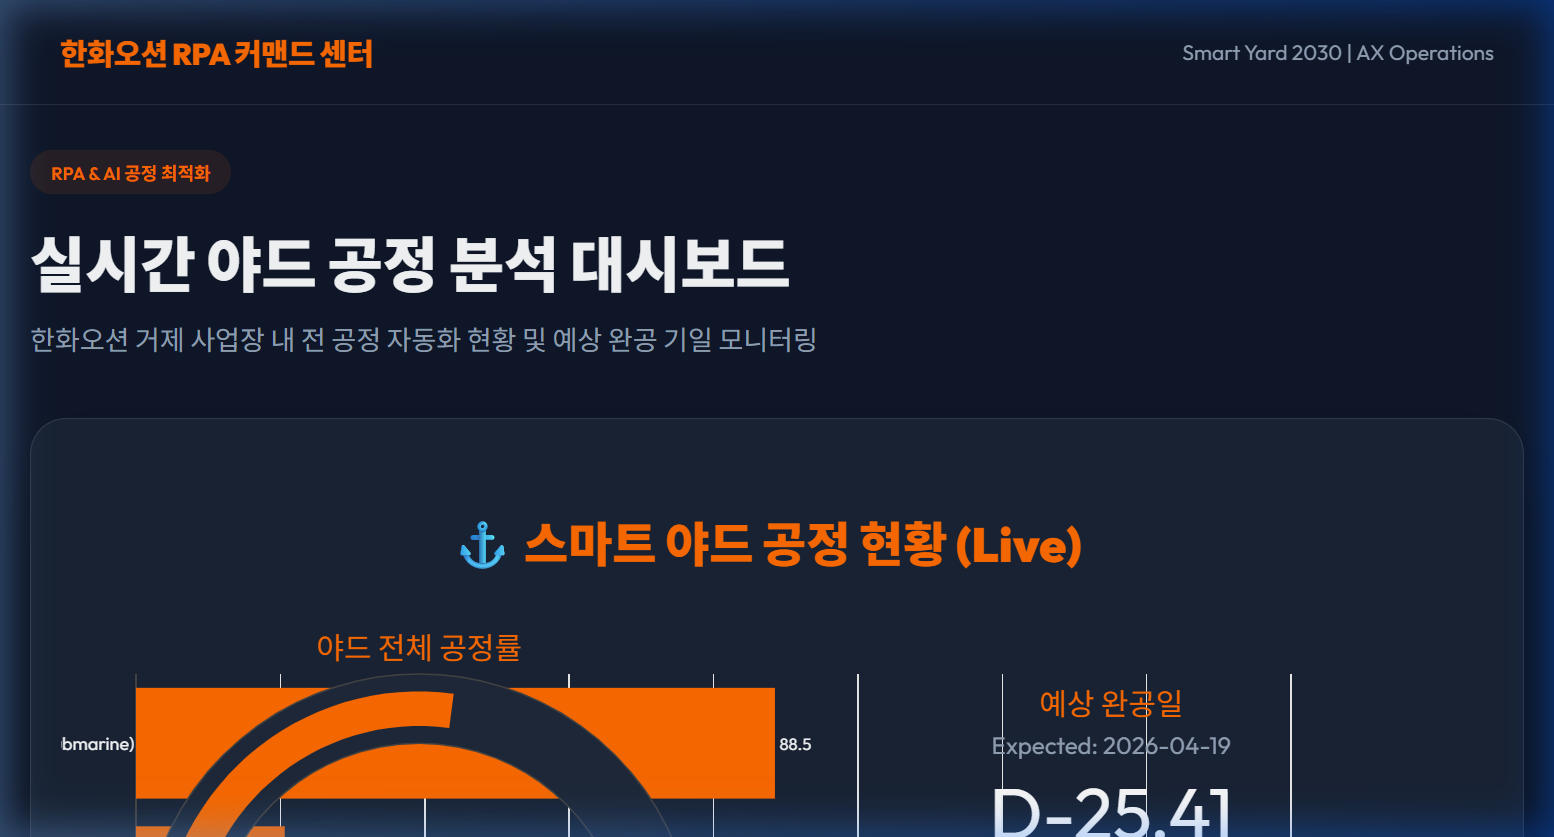
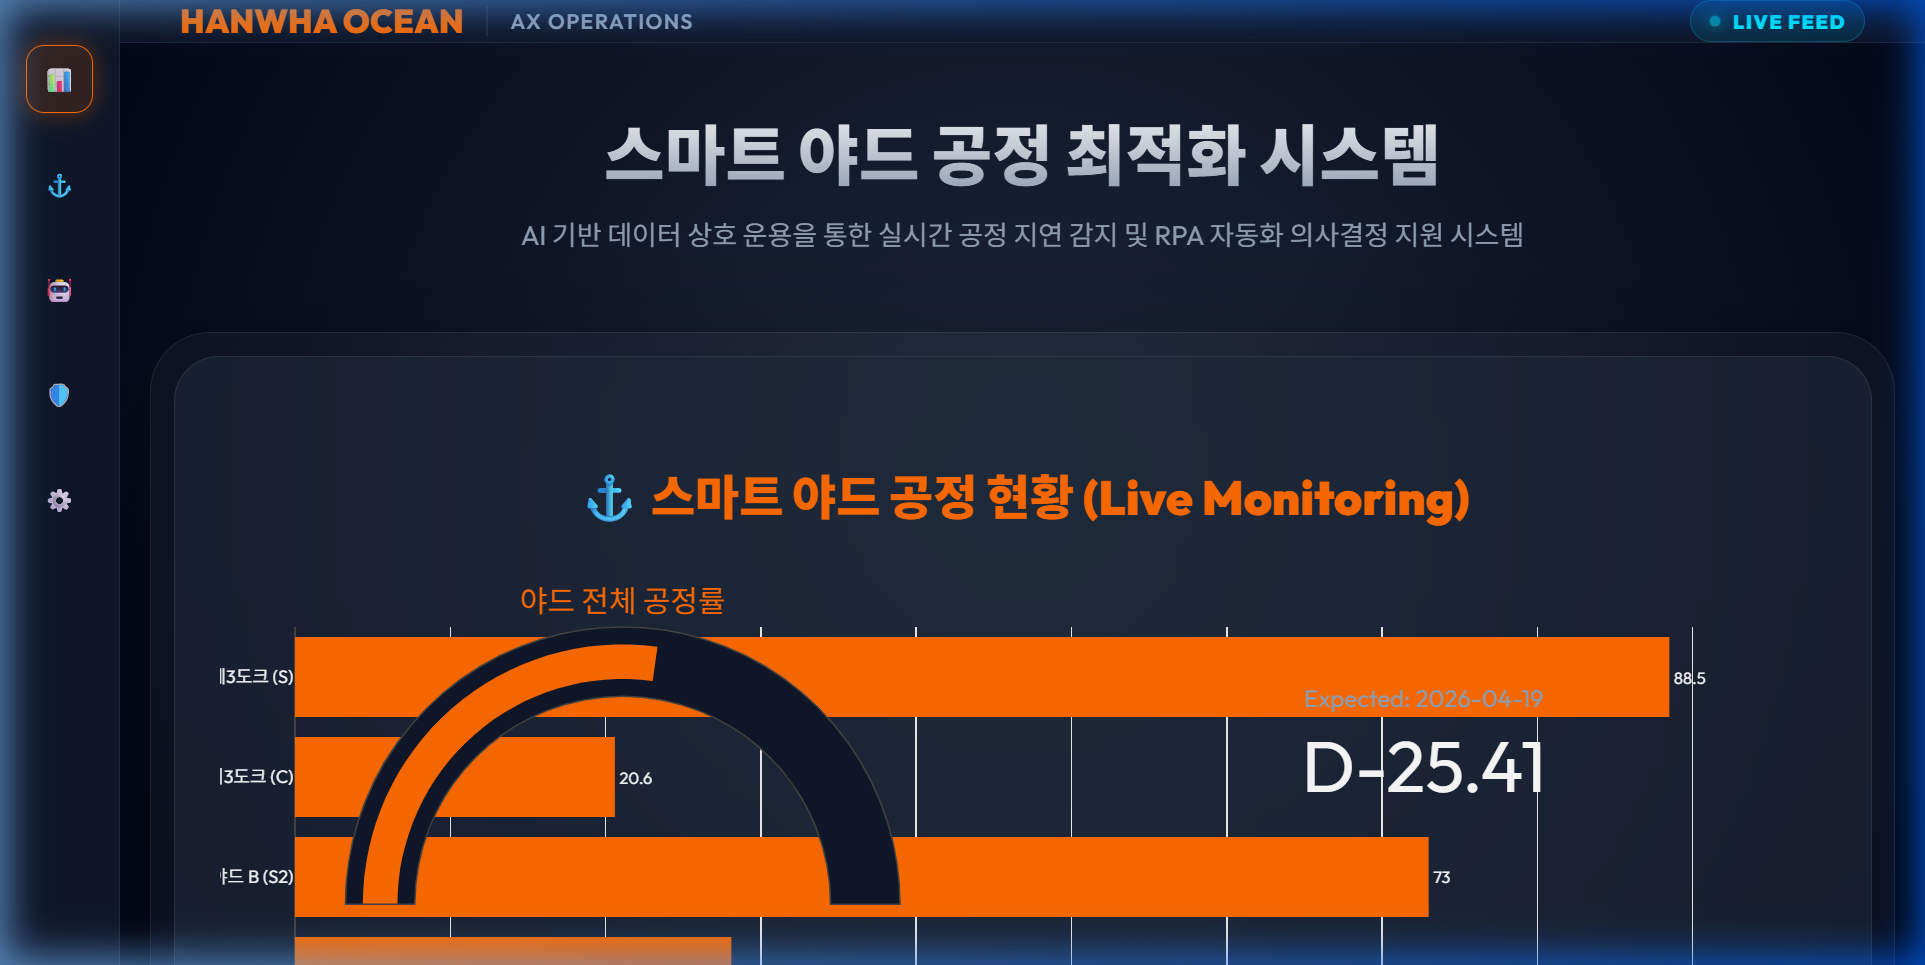
docs: Finalize Mission Control UI and refine README (Phase 2)

Changed region(s): [[0.0, 0.0, 1.0, 1.0], [0.3089, 0.4659, 0.7722, 0.5591]]

diff --git a/index.html b/index.html
@@ -3,93 +3,107 @@
 <head>
     <meta charset="utf-8" />
     <meta name="viewport" content="width=device-width, initial-scale=1.0">
-    <title>RPA 공정 모니터링 - 한화오션 AX</title>
+    <title>한화오션 Smart Yard RPA Mission Control</title>
     <link href="https://fonts.googleapis.com/css2?family=Outfit:wght@300;400;600;900&family=Noto+Sans+KR:wght@300;400;700;900&display=swap" rel="stylesheet">
     <style>
         :root {
             --primary: #FF6B00;
-            --bg: #0F172A;
-            --card: rgba(30, 41, 59, 0.7);
+            --primary-glow: rgba(255, 107, 0, 0.4);
+            --bg: #020617;
+            --sidebar: #0f172a;
+            --card: rgba(30, 41, 59, 0.6);
             --text: #F8FAFC;
             --secondary: #94A3B8;
-            --border: rgba(255, 255, 255, 0.1);
+            --accent: #00F2FF;
+            --border: rgba(255, 255, 255, 0.08);
         }
 
         * { margin: 0; padding: 0; box-sizing: border-box; font-family: 'Outfit', 'Noto Sans KR', sans-serif; }
-        body { background-color: var(--bg); color: var(--text); overflow-x: hidden; }
+        body { background-color: var(--bg); color: var(--text); display: flex; height: 100vh; overflow: hidden; }
 
-        .navbar {
-            height: 70px;
-            display: flex;
-            align-items: center;
-            padding: 0 40px;
-            background: rgba(15, 23, 42, 0.8);
-            backdrop-filter: blur(10px);
-            border-bottom: 1px solid var(--border);
-            position: fixed;
-            top: 0; width: 100%; z-index: 1000;
-            justify-content: space-between;
-        }
+        /* Sidebar */
+        .sidebar { width: 80px; background: var(--sidebar); border-right: 1px solid var(--border); display: flex; flex-direction: column; align-items: center; padding: 30px 0; z-index: 1001; }
+        .sidebar-item { width: 45px; height: 45px; border-radius: 12px; margin-bottom: 25px; display: flex; align-items: center; justify-content: center; color: var(--secondary); cursor: pointer; transition: 0.3s; border: 1px solid transparent; }
+        .sidebar-item:hover { color: var(--primary); background: rgba(255, 107, 0, 0.1); border-color: rgba(255, 107, 0, 0.2); }
+        .sidebar-item.active { color: var(--primary); background: rgba(255, 107, 0, 0.15); border-color: var(--primary); box-shadow: 0 0 15px var(--primary-glow); }
 
-        .logo { font-weight: 900; font-size: 20px; color: var(--primary); letter-spacing: -0.5px; }
+        /* Main Content */
+        .main { flex: 1; display: flex; flex-direction: column; position: relative; overflow-y: auto; background: radial-gradient(circle at 50% 50%, #1e293b 0%, #020617 100%); }
 
-        .container { max-width: 1400px; margin: 0 auto; padding: 100px 20px 40px; }
+        .header { height: 80px; padding: 0 40px; display: flex; align-items: center; justify-content: space-between; background: rgba(15, 23, 42, 0.8); backdrop-filter: blur(20px); border-bottom: 1px solid var(--border); position: sticky; top: 0; z-index: 1000; }
+        .logo-area { display: flex; align-items: center; gap: 15px; }
+        .live-badge { display: flex; align-items: center; gap: 8px; font-size: 13px; font-weight: 700; color: var(--accent); background: rgba(0, 242, 255, 0.1); padding: 5px 12px; border-radius: 20px; border: 1px solid rgba(0, 242, 255, 0.2); letter-spacing: 1px; }
+        .pulse { width: 8px; height: 8px; background: var(--accent); border-radius: 50%; animation: pulse 2s infinite; box-shadow: 0 0 10px var(--accent); }
+        @keyframes pulse { 0% { opacity: 0.5; transform: scale(0.9); } 50% { opacity: 1; transform: scale(1.2); } 100% { opacity: 0.5; transform: scale(0.9); } }
 
-        .hero { margin-bottom: 40px; animation: fadeIn 0.8s ease-out; }
-        .badge { background: rgba(255, 107, 0, 0.1); color: var(--primary); padding: 6px 14px; border-radius: 20px; font-size: 12px; font-weight: 600; text-transform: uppercase; margin-bottom: 15px; display: inline-block; }
-        
-        @keyframes fadeIn {
-            from { opacity: 0; transform: translateY(20px); }
-            to { opacity: 1; transform: translateY(0); }
-        }
+        .container { max-width: 1500px; margin: 0 auto; padding: 40px 20px; width: 100%; flex: 1; }
 
-        .dashboard-wrapper {
-            background: var(--card);
-            border-radius: 24px;
-            border: 1px solid var(--border);
-            padding: 20px;
-            box-shadow: 0 25px 50px -12px rgba(0, 0, 0, 0.5);
-            backdrop-filter: blur(20px);
-        }
+        .hero { text-align: center; margin-bottom: 50px; }
+        .hero h1 { font-size: 44px; font-weight: 900; background: linear-gradient(to bottom, #fff, #94a3b8); -webkit-background-clip: text; -webkit-text-fill-color: transparent; margin-bottom: 10px; }
+        .hero p { color: var(--secondary); font-size: 18px; max-width: 700px; margin: 0 auto; line-height: 1.6; }
 
-        .plotly-graph-div { border-radius: 12px; overflow: hidden; }
-        
-        .footer { text-align: center; padding: 40px; color: var(--secondary); font-size: 12px; }
+        .dashboard-container { position: relative; z-index: 10; padding: 15px; background: rgba(255, 255, 255, 0.03); border-radius: 40px; border: 1px solid var(--border); box-shadow: 0 40px 100px -20px rgba(0, 0, 0, 0.8); overflow: hidden; }
+
+        .dashboard-wrapper { background: var(--card); border-radius: 30px; border: 1px solid var(--border); padding: 30px; backdrop-filter: blur(40px); }
+
+        .footer { text-align: center; padding: 60px 0 40px; color: #475569; font-size: 13px; font-weight: 600; letter-spacing: 1px; }
+
+        /* Scrollbar */
+        ::-webkit-scrollbar { width: 8px; }
+        ::-webkit-scrollbar-track { background: var(--bg); }
+        ::-webkit-scrollbar-thumb { background: #1e293b; border-radius: 10px; }
+        ::-webkit-scrollbar-thumb:hover { background: #334155; }
     </style>
 </head>
 <body>
-    <nav class="navbar">
-        <div class="logo">한화오션 RPA 커맨드 센터</div>
-        <div style="font-size: 14px; color: var(--secondary)">Smart Yard 2030 | AX Operations</div>
-    </nav>
+    <aside class="sidebar">
+        <div class="sidebar-item active">📊</div>
+        <div class="sidebar-item">⚓</div>
+        <div class="sidebar-item">🤖</div>
+        <div class="sidebar-item">🛡</div>
+        <div class="sidebar-item">⚙</div>
+    </aside>
 
-    <div class="container">
-        <div class="hero">
-            <span class="badge">RPA & AI 공정 최적화</span>
-            <h1 style="font-size: 40px; margin-bottom: 10px; font-weight: 900;">실시간 야드 공정 분석 대시보드</h1>
-            <p style="color: var(--secondary); font-size: 18px;">한화오션 거제 사업장 내 전 공정 자동화 현황 및 예상 완공 기일 모니터링</p>
+    <main class="main">
+        <header class="header">
+            <div class="logo-area">
+                <span style="font-weight: 900; font-size: 22px; color: var(--primary);">HANWHA OCEAN</span>
+                <span style="height: 20px; width: 1px; background: var(--border);"></span>
+                <span style="color: var(--secondary); font-weight: 600; font-size: 14px; letter-spacing: 1px;">AX OPERATIONS</span>
+            </div>
+            <div class="live-badge">
+                <div class="pulse"></div> LIVE FEED
+            </div>
+        </header>
+
+        <div class="container">
+            <div class="hero">
+                <h1>스마트 야드 공정 최적화 시스템</h1>
+                <p>AI 기반 데이터 상호 운용을 통한 실시간 공정 지연 감지 및 RPA 자동화 의사결정 지원 시스템</p>
+            </div>
+
+            <div class="dashboard-container">
+                <div class="dashboard-wrapper">
+                    <script>window.PlotlyConfig = {MathJaxConfig: 'local'};</script>
+                    <script charset="utf-8" src="https://cdn.plot.ly/plotly-3.4.0.min.js" crossorigin="anonymous"></script>
+                    <div id="5b4eb6c0-a3ac-4c1f-8e40-47f14bac3d2d" class="plotly-graph-div" style="height:1400px; width:100%;"></div>
+                    <script>
+                        window.PLOTLYENV=window.PLOTLYENV || {};
+                        if (document.getElementById("5b4eb6c0-a3ac-4c1f-8e40-47f14bac3d2d")) {
+                            Plotly.newPlot(
+                                "5b4eb6c0-a3ac-4c1f-8e40-47f14bac3d2d",
[1 lines of base64/hex data omitted]
+                                {"paper_bgcolor":"transparent","plot_bgcolor":"transparent","font":{"color":"#F8FAFC","family":"Outfit, Noto Sans KR"},"margin":{"t":150,"b":50,"l":50,"r":50},"title":{"font":{"size":32,"color":"#FF6B00","weight":900},"text":"⚓ 스마트 야드 공정 현황 (Live Monitoring)"},"height":1400,"autosize":true,"showlegend":false},
+                                {"responsive": true}
+                            );
+                        }
+                    </script>
+                </div>
+            </div>
+            <footer class="footer">
+                © 2026 HANWHA OCEAN AX MISSION CONTROL. ALL PROCESS DATA ANALYZED BY PROPRIETARY AI ALGORITHMS.
+            </footer>
         </div>
-
-        <div class="dashboard-wrapper">
-            <script>window.PlotlyConfig = {MathJaxConfig: 'local'};</script>
-            <script charset="utf-8" src="https://cdn.plot.ly/plotly-3.4.0.min.js" crossorigin="anonymous"></script>
-            <div id="5b4eb6c0-a3ac-4c1f-8e40-47f14bac3d2d" class="plotly-graph-div" style="height:1400px; width:100%;"></div>
-            <script>
-                window.PLOTLYENV=window.PLOTLYENV || {};
-                if (document.getElementById("5b4eb6c0-a3ac-4c1f-8e40-47f14bac3d2d")) {
-                    Plotly.newPlot(
-                        "5b4eb6c0-a3ac-4c1f-8e40-47f14bac3d2d",
[1 lines of base64/hex data omitted]
-                        {"paper_bgcolor":"transparent","plot_bgcolor":"transparent","font":{"color":"#F8FAFC","family":"Outfit, Noto Sans KR"},"margin":{"t":150,"b":50,"l":50,"r":50},"title":{"font":{"size":32,"color":"#FF6B00","weight":900},"text":"⚓ 스마트 야드 공정 현황 (Live)"},"height":1400,"autosize":true,"showlegend":false},
-                        {"responsive": true}
-                    );
-                }
-            </script>
-        </div>
-    </div>
-
-    <footer class="footer">
-        © 2026 한화오션 AX RPA Operations. All process data processed by Hanwha AI Engine.
-    </footer>
+    </main>
 </body>
 </html>

diff --git a/README.md b/README.md
@@ -2,8 +2,6 @@
 
 한화오션 야드 내 공정 자동화 현황을 실시간으로 분석하고 AI 최적화 알고리즘을 통해 공기를 단축하는 RPA 커맨드 센터입니다.
 
-![RPA Dashboard](docs/images/dashboard.png)
-
 ## ✨ 주요 특징
 - **프리미엄 UI/UX**: 다크 테마 및 글래스모피즘이 적용된 고해상도 공정 현황판
 - **AI 공정 분석**: 데이터 기반의 공정 지연 위험 요소 자동 감지 및 리소스 재배치 권장
@@ -22,10 +20,10 @@
 
 ---
 
-## 📸 Dashboard Preview (V4.5.0 Strictly Centered Edition)
+## 📸 Dashboard Preview (Mission Control Edition)
 
-![AX Command Center V4.5.0](docs/dashboard_v40.png)
-*로고 제거, 헤더(타이틀+D-Day) 완전 중앙 정렬, 및 12-그리드 대칭 레이아웃이 적용된 고도화된 대시보드입니다.*
+![AX Mission Control Center](docs/images/dashboard.png)
+*로고 기반 브랜드 헤더, 'Live Feed' 상태 감지, 및 다층적인 글래스모피즘 레이아웃이 적용된 미션 컨트롤 센터형 대시보드입니다.*
 
 ---
 
